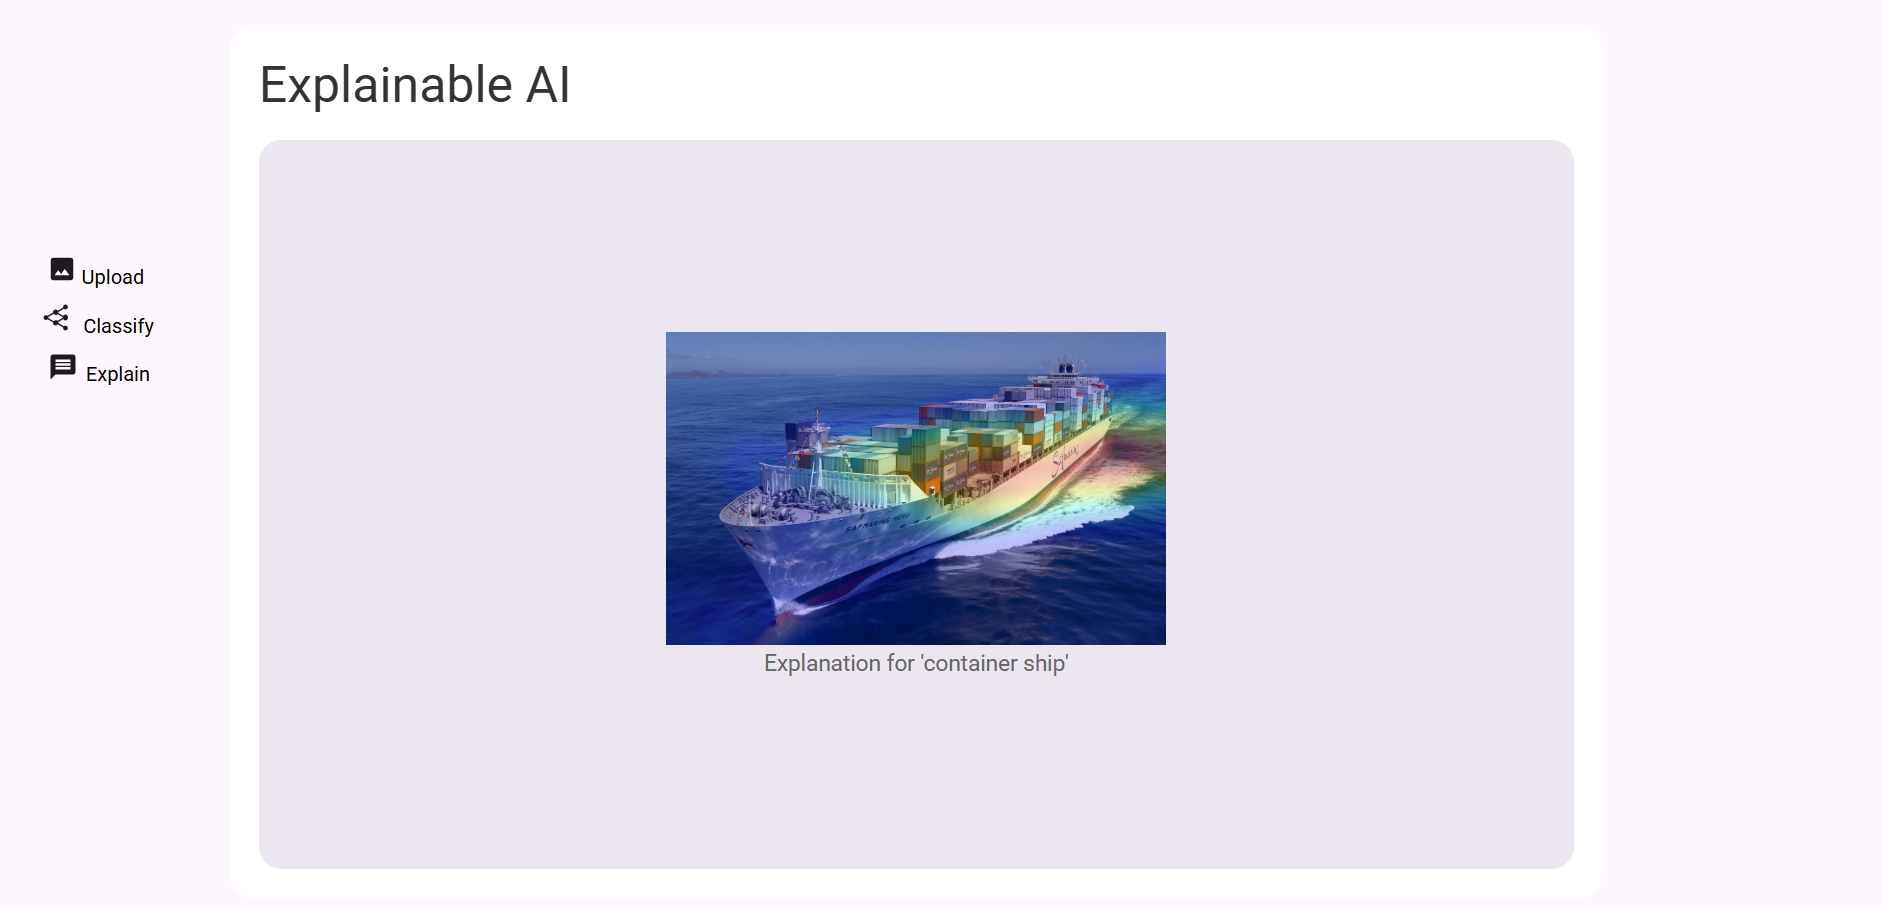
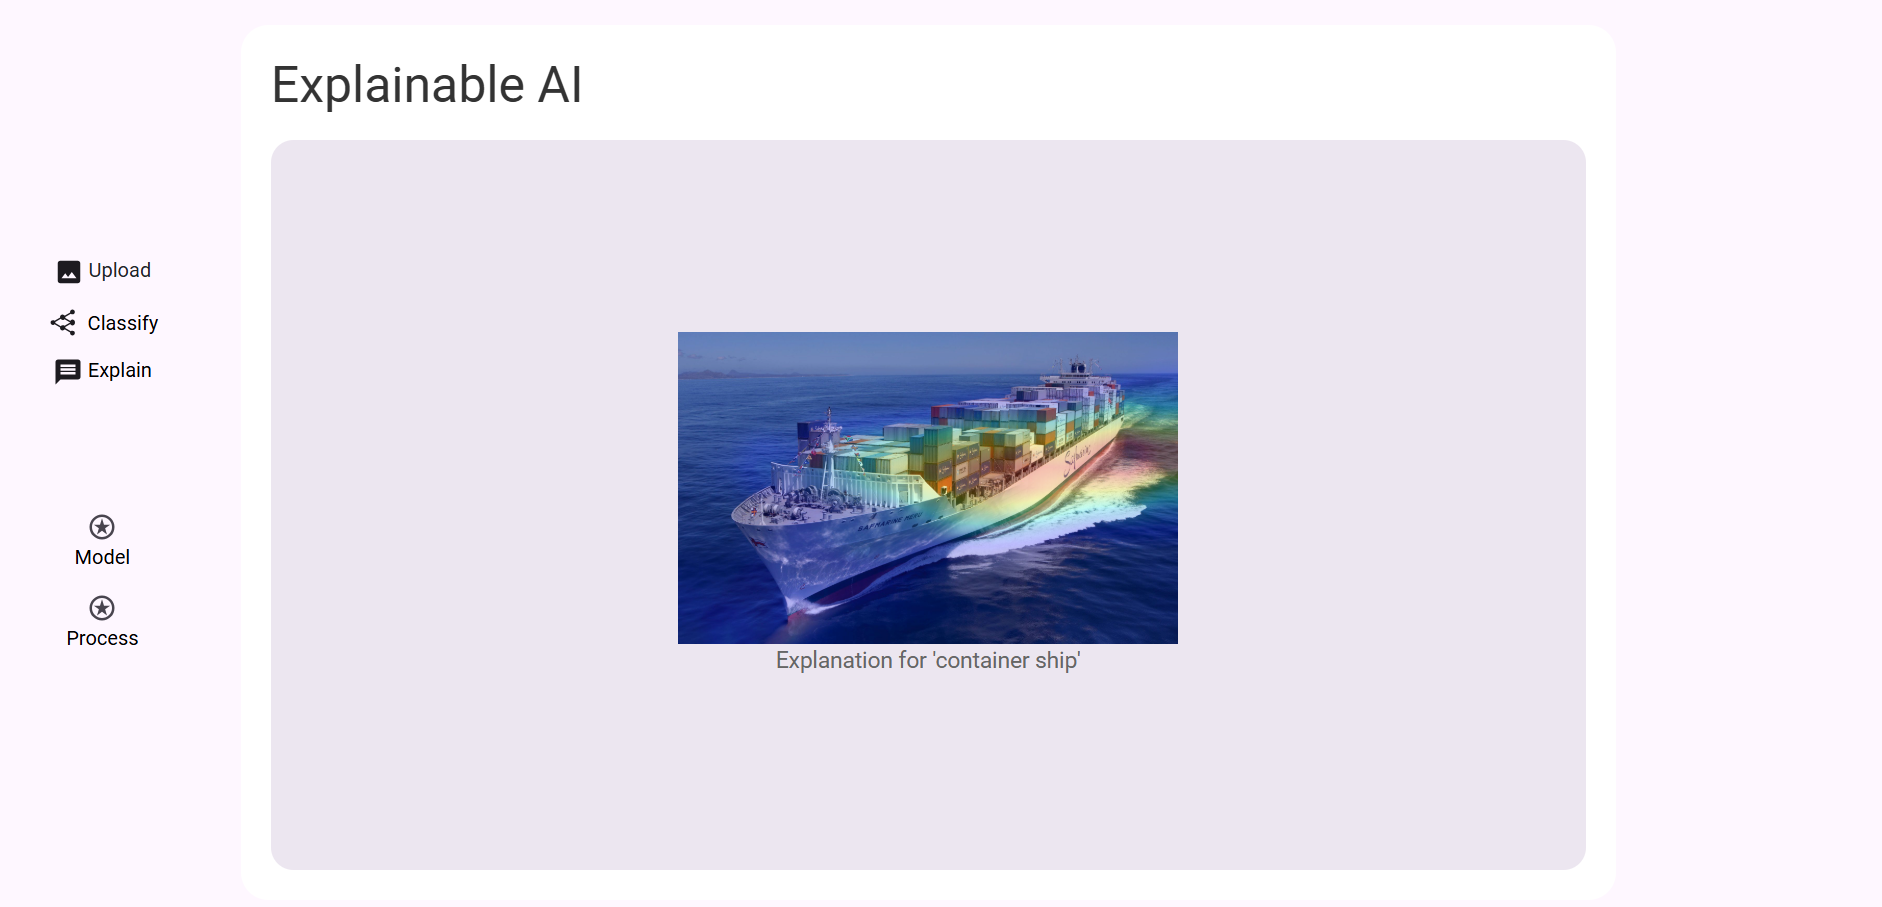
updated Implementierung

diff --git a/documentation/ausarbeitung/htwsaar-i-mst-vorlage-2.25/htwsaar-i-mst-vorlage-2.25/Chapters/Implementierung.tex b/documentation/ausarbeitung/htwsaar-i-mst-vorlage-2.25/htwsaar-i-mst-vorlage-2.25/Chapters/Implementierung.tex
@@ -11,23 +11,22 @@ Es erleichtert auch das Design, das mit HTML-Templates definiert wurde.
 Zur Implementierung der Webapplikation wurde das Framework FastAPI verwendet und die Templates wurden mit Jinja2 erstellt.
 
 \subsection{GUI-Elemente}
-Auf der linken Seite der GUI befinden sich die beiden Buttons \("\)Upload\("\) und \("\)Classify\("\).
-Durch einen Klick auf den Upload-Button wird ein Bild hochgeladen, das in der Mitte der Seite angezeigt wird.
-Unter dem Bild kann über ein Dropdown-Menü das Modell zur Klassifizierung ausgewählt werden.\\
+Auf der linken Seite der GUI befinden sich die Buttons \("\)Upload\("\), \("\)Classify\("\) und \("\)Explain\("\).
+Durch einen Klick auf den Upload-Button wird ein Bild hochgeladen, das in der Mitte der Seite angezeigt wird.\\
 \includegraphics[width=\linewidth]{Graphics/uploaded_image}
 \captionof{figure}{Anzeige des hochgeladenen Bildes}
-Das hochgeladene Bild kann dann mit dem Classify-Button klassifiziert werden.
-Durch Klick auf den Explain-Button öffnet sich ein Dialog mit zwei Dropdown-Menüs zur Auswahl einer der 5 wahrscheinlichsten Klassen und einer Erklärungsart.\\
+Das hochgeladene Bild kann dann mit dem Classify-Button klassifiziert werden.\\
 \includegraphics[width=\linewidth]{Graphics/classified_image}
 \captionof{figure}{Anzeige der 5 wahrscheinlichsten Klassen}
+Durch Klick auf den Explain-Button öffnet sich ein Dialog mit zwei Dropdown-Menüs zur Auswahl einer der 5 wahrscheinlichsten Klassen.
 Die möglichen Erklärungsarten sind Grad-CAM und LIME.
-Durch Klick auf den Explain-Button wird die ausgewählte Erklärung für die ausgewählte Klasse ausgeführt und eine Heatmap über dem Bild angezeigt.
 Bei Grad-CAM markieren verschiedene Farben die Relevanz bestimmter Bereiche für die Klassifizierung des Bildes.
 Bei LIME wird nur in einer Farbe angezeigt, welcher Bereich für die Klassifizierung relevant war.\\
 \includegraphics[width=\linewidth]{Graphics/gradcam}
 \captionof{figure}{Anzeige der Grad-CAM-Heatmap über dem Bild}
 \includegraphics[width=\linewidth]{Graphics/lime}
 \captionof{figure}{Anzeige des LIME-Overlays über dem Bild}
+Das Modell zur Klassifizierung kann mit dem Model-Button und die Erklärungsart mit dem Process-Button ausgewählt werden.
 
 \subsection{Interaktion mit der GUI}
 Das Layout der Seite wird über HTML-Templates definiert.
